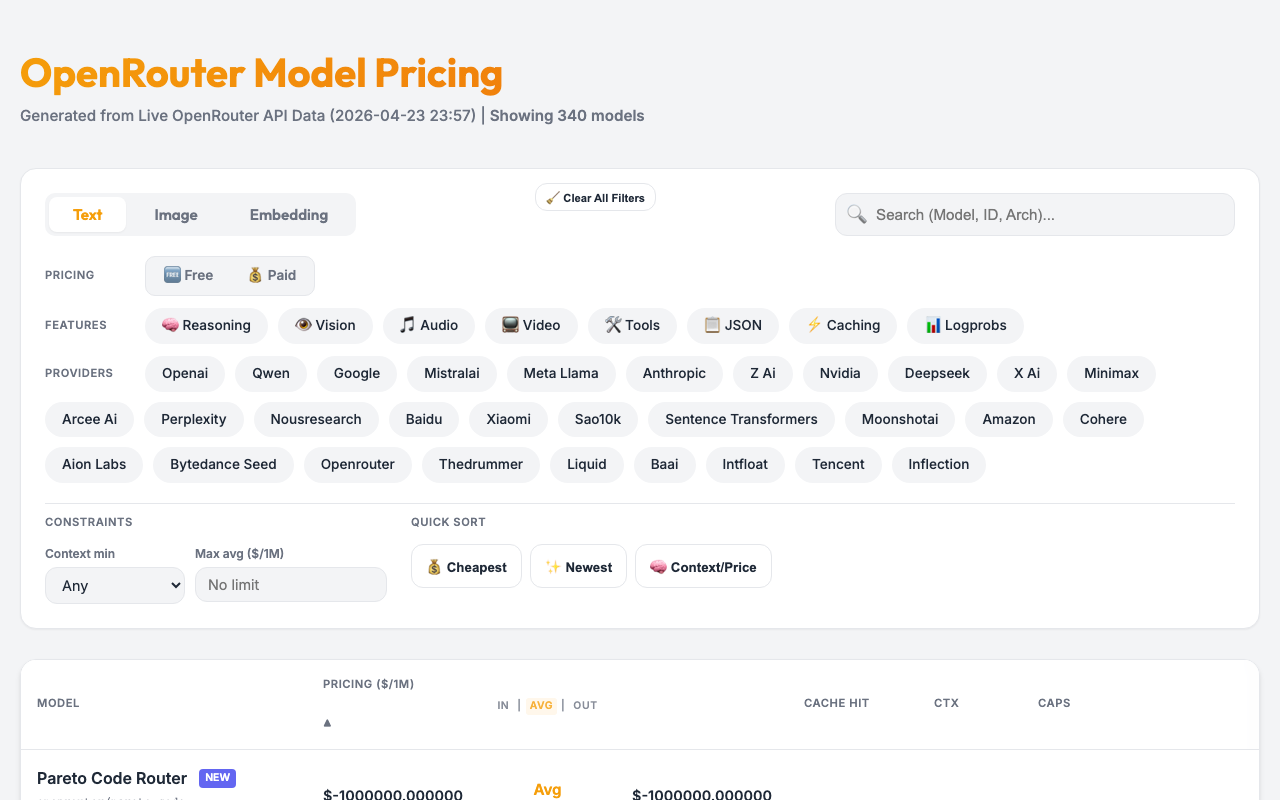
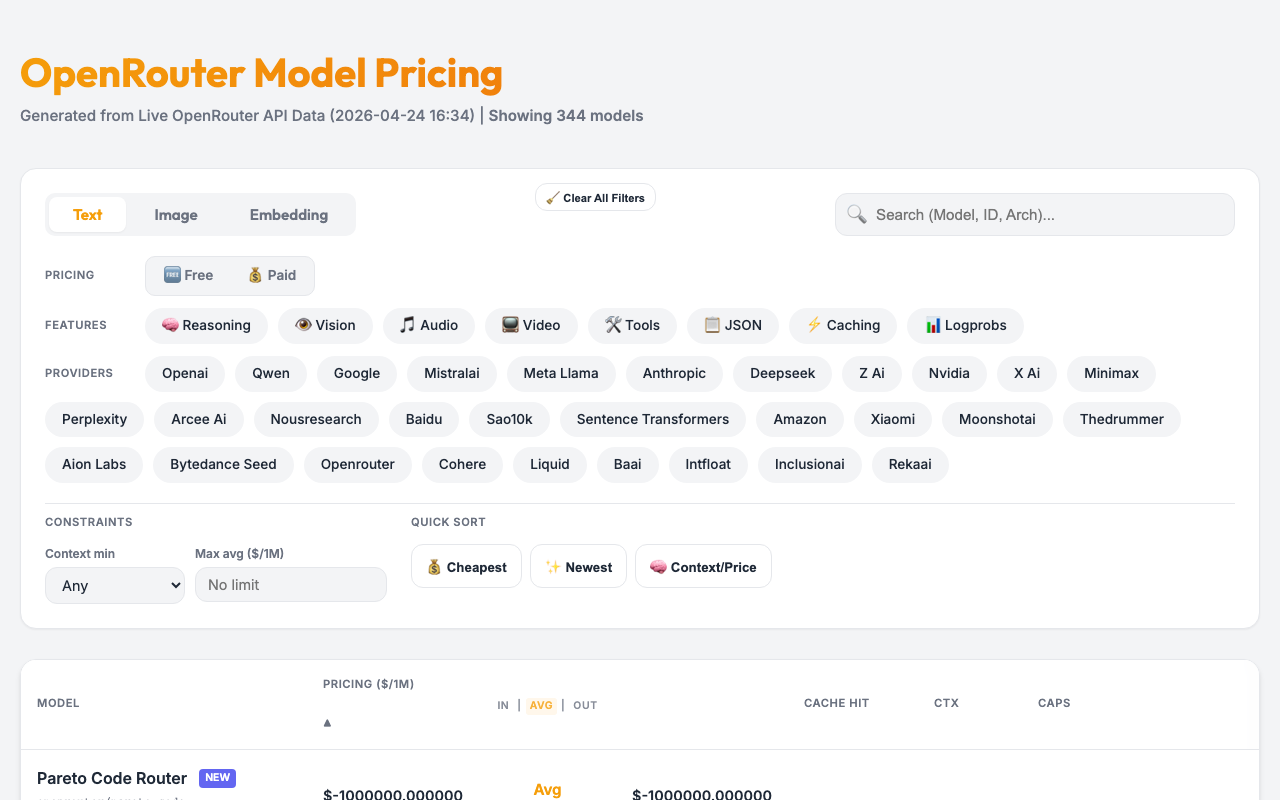
chore: automated pricing update (2026-04-24 16:34:28)
🆕 Added Models (3): deepcogito/cogito-v2.1-671b, deepseek/deepseek-v4-flash, deepseek/deepseek-v4-pro
❌ Removed Models (1): mistralai/codestral-embed-2505
🔄 Changed Models (4): deepseek/deepseek-v3.2, google/gemini-2.0-flash-001, minimax/minimax-m2.5, z-ai/glm-4.6v

diff --git a/docs/index.html b/docs/index.html
@@ -668,7 +668,7 @@
     <div class="container">
         <header>
             <h1>OpenRouter Model Pricing</h1>
-            <div class="meta">Generated from Live OpenRouter API Data (2026-04-24 05:58)</div>
+            <div class="meta">Generated from Live OpenRouter API Data (2026-04-24 16:34)</div>
         </header>
 
         <div class="controls">
@@ -734,6 +734,124 @@
     <script>
         window.openRouterModels = {
   "text": [
+    {
+      "id": "deepseek/deepseek-v4-pro",
+      "canonical_slug": "deepseek/deepseek-v4-pro-20260423",
+      "hugging_face_id": "deepseek-ai/DeepSeek-V4-Pro",
+      "name": "DeepSeek: DeepSeek V4 Pro",
+      "created": 1777000679,
+      "description": "DeepSeek V4 Pro is a large-scale Mixture-of-Experts model from DeepSeek with 1.6T total parameters and 49B activated parameters, supporting a 1M-token context window. It is designed for advanced reasoning, coding,...",
+      "context_length": 1048576,
+      "architecture": {
+        "modality": "text->text",
+        "input_modalities": [
+          "text"
+        ],
+        "output_modalities": [
+          "text"
+        ],
+        "tokenizer": "DeepSeek",
+        "instruct_type": null
+      },
+      "pricing": {
+        "prompt": "0.00000174",
+        "completion": "0.00000348",
+        "input_cache_read": "0.000000145"
+      },
+      "top_provider": {
+        "context_length": 1048576,
+        "max_completion_tokens": 384000,
+        "is_moderated": false
+      },
+      "per_request_limits": null,
+      "supported_parameters": [
+        "frequency_penalty",
+        "include_reasoning",
+        "logprobs",
+        "max_tokens",
+        "presence_penalty",
+        "reasoning",
+        "response_format",
+        "stop",
+        "temperature",
+        "tool_choice",
+        "tools",
+        "top_logprobs",
+        "top_p"
+      ],
+      "default_parameters": {
+        "temperature": 1,
+        "top_p": 1,
+        "top_k": null,
+        "frequency_penalty": null,
+        "presence_penalty": null,
+        "repetition_penalty": null
+      },
+      "knowledge_cutoff": null,
+      "expiration_date": null,
+      "links": {
+        "details": "/api/v1/models/deepseek/deepseek-v4-pro-20260423/endpoints"
+      }
+    },
+    {
+      "id": "deepseek/deepseek-v4-flash",
+      "canonical_slug": "deepseek/deepseek-v4-flash-20260423",
+      "hugging_face_id": "deepseek-ai/DeepSeek-V4-Flash",
+      "name": "DeepSeek: DeepSeek V4 Flash",
+      "created": 1777000666,
+      "description": "DeepSeek V4 Flash is an efficiency-optimized Mixture-of-Experts model from DeepSeek with 284B total parameters and 13B activated parameters, supporting a 1M-token context window. It is designed for fast inference and...",
+      "context_length": 1048576,
+      "architecture": {
+        "modality": "text->text",
+        "input_modalities": [
+          "text"
+        ],
+        "output_modalities": [
+          "text"
+        ],
+        "tokenizer": "DeepSeek",
+        "instruct_type": null
+      },
+      "pricing": {
+        "prompt": "0.00000014",
+        "completion": "0.00000028",
+        "input_cache_read": "0.000000028"
+      },
+      "top_provider": {
+        "context_length": 1048576,
+        "max_completion_tokens": 384000,
+        "is_moderated": false
+      },
+      "per_request_limits": null,
+      "supported_parameters": [
+        "frequency_penalty",
+        "include_reasoning",
+        "logprobs",
+        "max_tokens",
+        "presence_penalty",
+        "reasoning",
+        "response_format",
+        "stop",
+        "temperature",
+        "tool_choice",
+        "tools",
+        "top_logprobs",
+        "top_p"
+      ],
+      "default_parameters": {
+        "temperature": null,
+        "top_p": null,
+        "top_k": null,
+        "frequency_penalty": null,
+        "presence_penalty": null,
+        "repetition_penalty": null
+      },
+      "knowledge_cutoff": null,
+      "expiration_date": null,
+      "links": {
+        "details": "/api/v1/models/deepseek/deepseek-v4-flash-20260423/endpoints"
+      }
+    },
     {
       "id": "inclusionai/ling-2.6-1t:free",
       "canonical_slug": "inclusionai/ling-2.6-1t-20260423",
@@ -3886,12 +4004,12 @@
       },
       "pricing": {
         "prompt": "0.00000015",
-        "completion": "0.0000012",
-        "input_cache_read": "0.000000075"
+        "completion": "0.00000115",
+        "input_cache_read": "0.00000003"
       },
       "top_provider": {
         "context_length": 196608,
-        "max_completion_tokens": 65536,
+        "max_completion_tokens": null,
         "is_moderated": false
       },
       "per_request_limits": null,
@@ -5745,14 +5863,11 @@
         "frequency_penalty",
         "include_reasoning",
         "max_tokens",
-        "min_p",
         "presence_penalty",
         "reasoning",
         "repetition_penalty",
-        "response_format",
         "seed",
         "stop",
-        "structured_outputs",
         "temperature",
         "tool_choice",
         "tools",
@@ -6402,7 +6517,6 @@
         "frequency_penalty",
         "include_reasoning",
         "logit_bias",
-        "logprobs",
         "max_tokens",
         "min_p",
         "presence_penalty",
@@ -6416,7 +6530,6 @@
         "tool_choice",
         "tools",
         "top_k",
-        "top_logprobs",
         "top_p"
       ],
       "default_parameters": {
@@ -6664,6 +6777,62 @@
       "expiration_date": null,
       "links": {
         "details": "/api/v1/models/x-ai/grok-4.1-fast/endpoints"
+      }
+    },
+    {
+      "id": "deepcogito/cogito-v2.1-671b",
+      "canonical_slug": "deepcogito/cogito-v2.1-671b-20251118",
+      "hugging_face_id": "",
+      "name": "Deep Cogito: Cogito v2.1 671B",
+      "created": 1763071233,
+      "description": "Cogito v2.1 671B MoE represents one of the strongest open models globally, matching performance of frontier closed and open models. This model is trained using self play with reinforcement learning...",
+      "context_length": 128000,
+      "architecture": {
+        "modality": "text->text",
+        "input_modalities": [
+          "text"
+        ],
+        "output_modalities": [
+          "text"
+        ],
+        "tokenizer": "Other",
+        "instruct_type": null
+      },
+      "pricing": {
+        "prompt": "0.00000125",
+        "completion": "0.00000125"
+      },
+      "top_provider": {
+        "context_length": 128000,
+        "max_completion_tokens": null,
+        "is_moderated": false
+      },
+      "per_request_limits": null,
+      "supported_parameters": [
+        "frequency_penalty",
+        "include_reasoning",
+        "logit_bias",
+        "max_tokens",
+        "min_p",
+        "presence_penalty",
+        "reasoning",
+        "repetition_penalty",
+        "response_format",
+        "stop",
+        "structured_outputs",
+        "temperature",
+        "top_k",
+        "top_p"
+      ],
+      "default_parameters": {
+        "temperature": null,
+        "top_p": null,
+        "frequency_penalty": null
+      },
+      "knowledge_cutoff": null,
+      "expiration_date": null,
+      "links": {
+        "details": "/api/v1/models/deepcogito/cogito-v2.1-671b-20251118/endpoints"
       }
     },
     {
@@ -14845,7 +15014,7 @@
       "name": "Google: Gemini 2.0 Flash",
       "created": 1738769413,
       "description": "Gemini Flash 2.0 offers a significantly faster time to first token (TTFT) compared to [Gemini Flash 1.5](/google/gemini-flash-1.5), while maintaining quality on par with larger models like [Gemini Pro 1.5](/google/gemini-pro-1.5). It...",
-      "context_length": 1000000,
+      "context_length": 1048576,
       "architecture": {
         "modality": "text+image+file+audio+video->text",
         "input_modalities": [
@@ -14872,7 +15041,7 @@
         "input_cache_write": "0.00000008333333333333334"
       },
       "top_provider": {
-        "context_length": 1000000,
+        "context_length": 1048576,
         "max_completion_tokens": 8192,
         "is_moderated": false
       },
@@ -20612,57 +20781,6 @@
       }
     },
     {
-      "id": "mistralai/codestral-embed-2505",
-      "canonical_slug": "mistralai/codestral-embed-2505",
-      "hugging_face_id": "",
-      "name": "Mistral: Codestral Embed 2505",
-      "created": 1761864460,
-      "description": "Mistral Codestral Embed is specially designed for code, perfect for embedding code databases, repositories, and powering coding assistants with state-of-the-art retrieval.",
-      "context_length": 8192,
-      "architecture": {
-        "modality": "text->embeddings",
-        "input_modalities": [
-          "text"
-        ],
-        "output_modalities": [
-          "embeddings"
-        ],
-        "tokenizer": "Mistral",
-        "instruct_type": null
-      },
-      "pricing": {
-        "prompt": "0.00000015",
-        "completion": "0"
-      },
-      "top_provider": {
-        "context_length": 8192,
-        "max_completion_tokens": null,
-        "is_moderated": false
-      },
-      "per_request_limits": null,
-      "supported_parameters": [
-        "frequency_penalty",
-        "max_tokens",
-        "presence_penalty",
-        "response_format",
-        "seed",
-        "stop",
-        "structured_outputs",
-        "temperature",
-        "top_p"
-      ],
-      "default_parameters": {
-        "temperature": null,
-        "top_p": null,
-        "frequency_penalty": null
-      },
-      "knowledge_cutoff": null,
-      "expiration_date": null,
-      "links": {
-        "details": "/api/v1/models/mistralai/codestral-embed-2505/endpoints"
-      }
-    },
-    {
       "id": "openai/text-embedding-3-large",
       "canonical_slug": "openai/text-embedding-3-large",
       "hugging_face_id": "",
@@ -20987,7 +21105,7 @@
     }
   ]
 };
-        window.providerOptions = ['openai', 'qwen', 'google', 'mistralai', 'anthropic', 'meta-llama', 'z-ai', 'deepseek', 'nvidia', 'x-ai', 'minimax', 'perplexity', 'arcee-ai', 'baidu', 'nousresearch', 'xiaomi', 'amazon', 'moonshotai', 'sao10k', 'sentence-transformers', 'aion-labs', 'bytedance-seed', 'openrouter', 'cohere', 'thedrummer', 'baai', 'intfloat', 'liquid', 'inflection', 'thenlper', 'morph', 'microsoft', 'rekaai', 'tencent', 'allenai', 'relace', 'inclusionai', 'prime-intellect', 'alibaba', 'tngtech', 'undi95', 'upstage', 'anthracite-org', '~anthropic', 'nex-agi', 'cognitivecomputations', 'mancer', 'gryphe', 'bytedance', 'writer', 'kwaipilot', 'alfredpros', 'stepfun', 'alpindale', 'ibm-granite', 'ai21', 'inception', 'switchpoint', 'essentialai'];
+        window.providerOptions = ['openai', 'qwen', 'google', 'mistralai', 'meta-llama', 'anthropic', 'deepseek', 'z-ai', 'nvidia', 'x-ai', 'minimax', 'perplexity', 'arcee-ai', 'nousresearch', 'baidu', 'sao10k', 'sentence-transformers', 'amazon', 'xiaomi', 'moonshotai', 'thedrummer', 'aion-labs', 'bytedance-seed', 'openrouter', 'cohere', 'liquid', 'baai', 'intfloat', 'inclusionai', 'rekaai', 'inflection', 'thenlper', 'relace', 'allenai', 'tencent', 'morph', 'microsoft', 'prime-intellect', 'undi95', '~anthropic', 'switchpoint', 'inception', 'kwaipilot', 'anthracite-org', 'alibaba', 'ibm-granite', 'alpindale', 'stepfun', 'tngtech', 'upstage', 'gryphe', 'mancer', 'nex-agi', 'ai21', 'essentialai', 'bytedance', 'cognitivecomputations', 'alfredpros', 'deepcogito', 'writer'];
         let currentTab = 'text';
         let sortKey = 'price_avg';
         let sortAsc = true;
